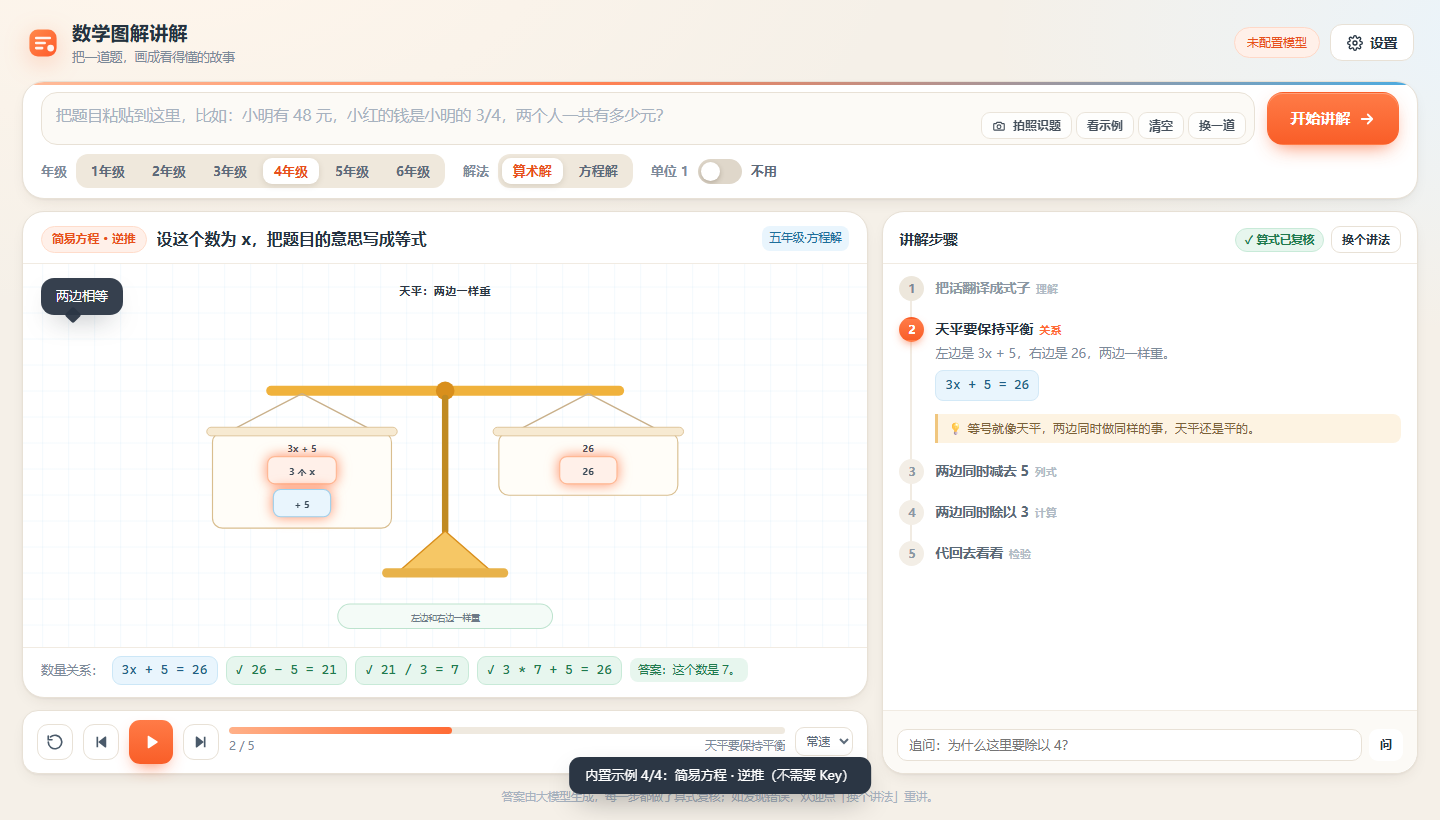
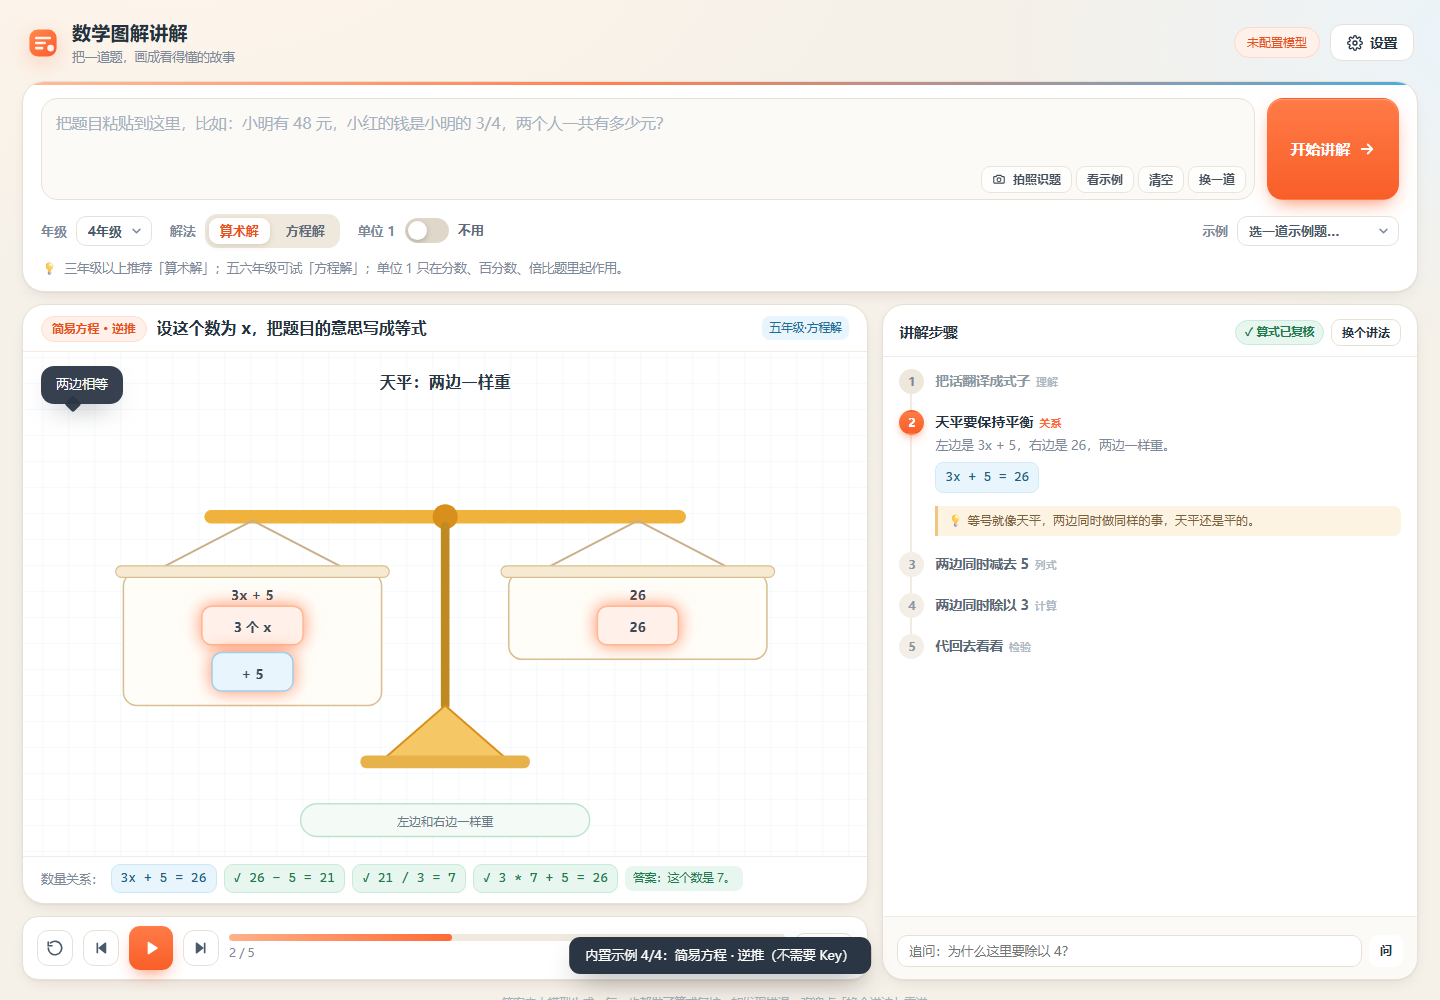
feat: 图解画布加高到 600，字号整体提一档
- 舞台最低高度 460 → 600，.svg-host 最低 460：配合 viewBox 自动贴合，
  同样一张图能占更大面积，字号随之放大
- 图解字号整体上调：lbl 13→14、val 14→15、note 12→12.5、title 16→17
- 天平：托盘加宽到 268，物品字号 14→15、行高 46→48，避免大字号挤在一起
- 十字交叉：份数字号 17→18
- 自测 65 项

diff --git a/dist/math-tutor.html b/dist/math-tutor.html
@@ -236,7 +236,7 @@ button{font-family:inherit}
 .stage-col{display:flex;flex-direction:column;gap:12px;min-width:0;min-height:0}
 
 /* ---------------- 舞台 ---------------- */
-.stage{display:flex;flex-direction:column;flex:1 1 auto;min-height:460px;overflow:hidden}
+.stage{display:flex;flex-direction:column;flex:1 1 auto;min-height:600px;overflow:hidden}
 .stage-body{position:relative;flex:1;display:flex;min-height:0}
 .narration{
   position:absolute;left:18px;top:14px;z-index:3;max-width:min(440px,74%);
@@ -282,7 +282,7 @@ button{font-family:inherit}
     linear-gradient(90deg, rgba(45,156,219,.055) 1px, transparent 1px);
   background-size:26px 26px;
   background-position:center;
-  min-height:230px;
+  min-height:460px;
   display:flex;align-items:center;justify-content:center;
 }
 .svg-host > svg{position:absolute;inset:0;width:100%;height:100%;display:block;overflow:visible}
@@ -495,11 +495,11 @@ input[type=range]{width:100%;accent-color:var(--brand)}
 /* ---------------- SVG 图解通用 ---------------- */
 .dg{font-family:var(--font);user-select:none}
 .dg text{fill:#3B4A58}
-.dg .lbl{font-size:13px;font-weight:600}
-.dg .val{font-size:14px;font-weight:800;fill:#1F5E86}
-.dg .sm{font-size:11.5px;fill:#8A96A2}
-.dg .note{font-size:12px;fill:#6C7986}
-.dg .title{font-size:16px;font-weight:800;fill:#2B3644}
+.dg .lbl{font-size:14px;font-weight:600}
+.dg .val{font-size:15px;font-weight:800;fill:#1F5E86}
+.dg .sm{font-size:12px;fill:#8A96A2}
+.dg .note{font-size:12.5px;fill:#6C7986}
+.dg .title{font-size:17px;font-weight:800;fill:#2B3644}
 .dg .shape{transition:filter .3s ease, opacity .3s ease}
 .dg .el{transition:opacity .35s ease, filter .35s ease, transform .45s cubic-bezier(.4,0,.2,1);transform-box:fill-box}
 .dg .el.hidden{opacity:0 !important;pointer-events:none}
@@ -553,7 +553,7 @@ input[type=range]{width:100%;accent-color:var(--brand)}
 <!--
   数学图解讲解 · Math Tutor
   单文件版本，由 build.mjs 从 src/ 生成，请勿直接编辑本文件。
-  构建版本：61b87b5a
+  构建版本：19024929
   许可：MIT
 -->
 
@@ -2706,9 +2706,9 @@ ${answerMsg}
       { side: 'right', x: cx + 200, data: spec.right, color: C.orange }
     ].forEach(({ side, x, data, color }) => {
       const items = data.items || [];
-      const trayW = 250;
+      const trayW = 268;
       const sideY = beamY + 58;
-      const trayH = 42 + Math.max(1, items.length) * 46;
+      const trayH = 42 + Math.max(1, items.length) * 48;
       const g = s('g', { class: 'el' });
 
       // 吊绳 + 托盘
@@ -2722,18 +2722,18 @@ ${answerMsg}
       g._text = headT;
 
       // 物品：从上往下排，不再顶到横梁
-      let yy = sideY + 60;
+      let yy = sideY + 62;
       items.forEach((it, i) => {
         const txt = String(it.text || '');
-        const cw = Math.min(trayW - 20, Math.max(80, txt.length * 14 + 26));
+        const cw = Math.min(trayW - 16, Math.max(84, txt.length * 15 + 30));
         const ig = s('g', { class: 'el', 'data-id': it.id });
-        ig.appendChild(s('rect', { x: x - cw / 2, y: yy - 26, width: cw, height: 38, rx: 10, fill: i % 2 ? '#E9F5FD' : '#FFF0E9', stroke: i % 2 ? '#9FD0EC' : '#FFB894', 'stroke-width': 1.6 }));
-        const tx = s('text', { x, y: yy, class: 'lbl', 'text-anchor': 'middle', fill: '#2B4A63', 'font-size': 14 }, txt);
+        ig.appendChild(s('rect', { x: x - cw / 2, y: yy - 27, width: cw, height: 40, rx: 10, fill: i % 2 ? '#E9F5FD' : '#FFF0E9', stroke: i % 2 ? '#9FD0EC' : '#FFB894', 'stroke-width': 1.6 }));
+        const tx = s('text', { x, y: yy, class: 'lbl', 'text-anchor': 'middle', fill: '#2B4A63', 'font-size': 15 }, txt);
         ig.appendChild(tx);
         ig._text = tx;
         g.appendChild(ig);
         reg[it.id] = ig;
-        yy += 46;
+        yy += 48;
       });
 
       beamGroup.appendChild(g);
@@ -3088,7 +3088,7 @@ ${answerMsg}
       g.appendChild(s('text', { x: lx - 28, y: y - 6, class: 'lbl', 'text-anchor': 'end', fill: c.deep }, r.label || ''));
       g.appendChild(s('text', { x: lx - 28, y: y + 22, class: 'val', 'text-anchor': 'end', 'font-size': 17 }, r.value || ''));
 
-      const shareT = s('text', { x: rx + 20, y: y + 8, class: 'val', 'text-anchor': 'start', fill: c.deep, 'font-size': 17 }, r.share || '');
+      const shareT = s('text', { x: rx + 20, y: y + 8, class: 'val', 'text-anchor': 'start', fill: c.deep, 'font-size': 18 }, r.share || '');
       g.appendChild(shareT);
       g._text = shareT;
       svg.appendChild(g);

diff --git a/dist/math-tutor.js b/dist/math-tutor.js
@@ -1872,9 +1872,9 @@ ${answerMsg}
       { side: 'right', x: cx + 200, data: spec.right, color: C.orange }
     ].forEach(({ side, x, data, color }) => {
       const items = data.items || [];
-      const trayW = 250;
+      const trayW = 268;
       const sideY = beamY + 58;
-      const trayH = 42 + Math.max(1, items.length) * 46;
+      const trayH = 42 + Math.max(1, items.length) * 48;
       const g = s('g', { class: 'el' });
 
       // 吊绳 + 托盘
@@ -1888,18 +1888,18 @@ ${answerMsg}
       g._text = headT;
 
       // 物品：从上往下排，不再顶到横梁
-      let yy = sideY + 60;
+      let yy = sideY + 62;
       items.forEach((it, i) => {
         const txt = String(it.text || '');
-        const cw = Math.min(trayW - 20, Math.max(80, txt.length * 14 + 26));
+        const cw = Math.min(trayW - 16, Math.max(84, txt.length * 15 + 30));
         const ig = s('g', { class: 'el', 'data-id': it.id });
-        ig.appendChild(s('rect', { x: x - cw / 2, y: yy - 26, width: cw, height: 38, rx: 10, fill: i % 2 ? '#E9F5FD' : '#FFF0E9', stroke: i % 2 ? '#9FD0EC' : '#FFB894', 'stroke-width': 1.6 }));
-        const tx = s('text', { x, y: yy, class: 'lbl', 'text-anchor': 'middle', fill: '#2B4A63', 'font-size': 14 }, txt);
+        ig.appendChild(s('rect', { x: x - cw / 2, y: yy - 27, width: cw, height: 40, rx: 10, fill: i % 2 ? '#E9F5FD' : '#FFF0E9', stroke: i % 2 ? '#9FD0EC' : '#FFB894', 'stroke-width': 1.6 }));
+        const tx = s('text', { x, y: yy, class: 'lbl', 'text-anchor': 'middle', fill: '#2B4A63', 'font-size': 15 }, txt);
         ig.appendChild(tx);
         ig._text = tx;
         g.appendChild(ig);
         reg[it.id] = ig;
-        yy += 46;
+        yy += 48;
       });
 
       beamGroup.appendChild(g);
@@ -2254,7 +2254,7 @@ ${answerMsg}
       g.appendChild(s('text', { x: lx - 28, y: y - 6, class: 'lbl', 'text-anchor': 'end', fill: c.deep }, r.label || ''));
       g.appendChild(s('text', { x: lx - 28, y: y + 22, class: 'val', 'text-anchor': 'end', 'font-size': 17 }, r.value || ''));
 
-      const shareT = s('text', { x: rx + 20, y: y + 8, class: 'val', 'text-anchor': 'start', fill: c.deep, 'font-size': 17 }, r.share || '');
+      const shareT = s('text', { x: rx + 20, y: y + 8, class: 'val', 'text-anchor': 'start', fill: c.deep, 'font-size': 18 }, r.share || '');
       g.appendChild(shareT);
       g._text = shareT;
       svg.appendChild(g);

diff --git a/src/js/60-diagrams.js b/src/js/60-diagrams.js
@@ -190,9 +190,9 @@
       { side: 'right', x: cx + 200, data: spec.right, color: C.orange }
     ].forEach(({ side, x, data, color }) => {
       const items = data.items || [];
-      const trayW = 250;
+      const trayW = 268;
       const sideY = beamY + 58;
-      const trayH = 42 + Math.max(1, items.length) * 46;
+      const trayH = 42 + Math.max(1, items.length) * 48;
       const g = s('g', { class: 'el' });
 
       // 吊绳 + 托盘
@@ -206,18 +206,18 @@
       g._text = headT;
 
       // 物品：从上往下排，不再顶到横梁
-      let yy = sideY + 60;
+      let yy = sideY + 62;
       items.forEach((it, i) => {
         const txt = String(it.text || '');
-        const cw = Math.min(trayW - 20, Math.max(80, txt.length * 14 + 26));
+        const cw = Math.min(trayW - 16, Math.max(84, txt.length * 15 + 30));
         const ig = s('g', { class: 'el', 'data-id': it.id });
-        ig.appendChild(s('rect', { x: x - cw / 2, y: yy - 26, width: cw, height: 38, rx: 10, fill: i % 2 ? '#E9F5FD' : '#FFF0E9', stroke: i % 2 ? '#9FD0EC' : '#FFB894', 'stroke-width': 1.6 }));
-        const tx = s('text', { x, y: yy, class: 'lbl', 'text-anchor': 'middle', fill: '#2B4A63', 'font-size': 14 }, txt);
+        ig.appendChild(s('rect', { x: x - cw / 2, y: yy - 27, width: cw, height: 40, rx: 10, fill: i % 2 ? '#E9F5FD' : '#FFF0E9', stroke: i % 2 ? '#9FD0EC' : '#FFB894', 'stroke-width': 1.6 }));
+        const tx = s('text', { x, y: yy, class: 'lbl', 'text-anchor': 'middle', fill: '#2B4A63', 'font-size': 15 }, txt);
         ig.appendChild(tx);
         ig._text = tx;
         g.appendChild(ig);
         reg[it.id] = ig;
-        yy += 46;
+        yy += 48;
       });
 
       beamGroup.appendChild(g);
@@ -572,7 +572,7 @@
       g.appendChild(s('text', { x: lx - 28, y: y - 6, class: 'lbl', 'text-anchor': 'end', fill: c.deep }, r.label || ''));
       g.appendChild(s('text', { x: lx - 28, y: y + 22, class: 'val', 'text-anchor': 'end', 'font-size': 17 }, r.value || ''));
 
-      const shareT = s('text', { x: rx + 20, y: y + 8, class: 'val', 'text-anchor': 'start', fill: c.deep, 'font-size': 17 }, r.share || '');
+      const shareT = s('text', { x: rx + 20, y: y + 8, class: 'val', 'text-anchor': 'start', fill: c.deep, 'font-size': 18 }, r.share || '');
       g.appendChild(shareT);
       g._text = shareT;
       svg.appendChild(g);

diff --git a/src/styles.css b/src/styles.css
@@ -228,7 +228,7 @@ button{font-family:inherit}
 .stage-col{display:flex;flex-direction:column;gap:12px;min-width:0;min-height:0}
 
 /* ---------------- 舞台 ---------------- */
-.stage{display:flex;flex-direction:column;flex:1 1 auto;min-height:460px;overflow:hidden}
+.stage{display:flex;flex-direction:column;flex:1 1 auto;min-height:600px;overflow:hidden}
 .stage-body{position:relative;flex:1;display:flex;min-height:0}
 .narration{
   position:absolute;left:18px;top:14px;z-index:3;max-width:min(440px,74%);
@@ -274,7 +274,7 @@ button{font-family:inherit}
     linear-gradient(90deg, rgba(45,156,219,.055) 1px, transparent 1px);
   background-size:26px 26px;
   background-position:center;
-  min-height:230px;
+  min-height:460px;
   display:flex;align-items:center;justify-content:center;
 }
 .svg-host > svg{position:absolute;inset:0;width:100%;height:100%;display:block;overflow:visible}
@@ -487,11 +487,11 @@ input[type=range]{width:100%;accent-color:var(--brand)}
 /* ---------------- SVG 图解通用 ---------------- */
 .dg{font-family:var(--font);user-select:none}
 .dg text{fill:#3B4A58}
-.dg .lbl{font-size:13px;font-weight:600}
-.dg .val{font-size:14px;font-weight:800;fill:#1F5E86}
-.dg .sm{font-size:11.5px;fill:#8A96A2}
-.dg .note{font-size:12px;fill:#6C7986}
-.dg .title{font-size:16px;font-weight:800;fill:#2B3644}
+.dg .lbl{font-size:14px;font-weight:600}
+.dg .val{font-size:15px;font-weight:800;fill:#1F5E86}
+.dg .sm{font-size:12px;fill:#8A96A2}
+.dg .note{font-size:12.5px;fill:#6C7986}
+.dg .title{font-size:17px;font-weight:800;fill:#2B3644}
 .dg .shape{transition:filter .3s ease, opacity .3s ease}
 .dg .el{transition:opacity .35s ease, filter .35s ease, transform .45s cubic-bezier(.4,0,.2,1);transform-box:fill-box}
 .dg .el.hidden{opacity:0 !important;pointer-events:none}
